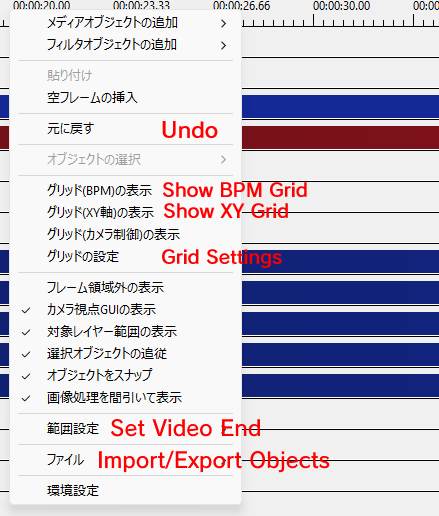
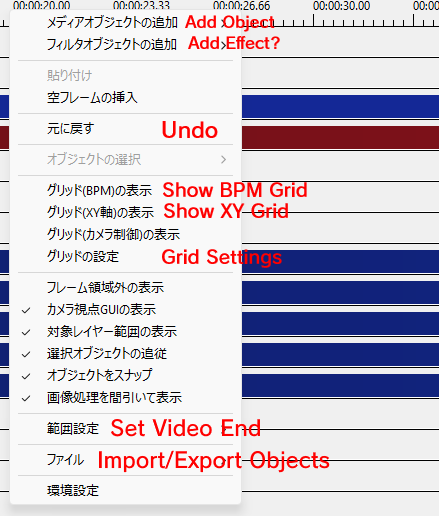
Add images

Changed region(s): [[0.4146, 0.031, 0.6515, 0.093]]

diff --git a/AviUtl-Reference.md b/AviUtl-Reference.md
@@ -1,12 +1,18 @@
 # AviUtl Reference
 Picture guide of what does what in AviUtl, primarily the Extended Editor. If anything is missing, that means I haven't tested it or have no idea what it does even after testing.
+
 ## Timeline Right Click
 ![](images/aviutlreference/timelinerightclick.png)
+### Add Object
+![](images/aviutlreference/insertobject1.png)
 ### Set Video End
 ![](images/aviutlreference/timelinerightclick_videoend.png)
+
 ## Object Right Click
 ![](images/aviutlreference/rightclickguide.png)
+
 ## Object Double Click
-![](images/aviutlreference/doubleclickobject.png)
+![](images/aviutlreference/doubleclickobject.png)\
+![](images/aviutlreference/swapobject.png)
 ### Easing?
 ![](images/aviutlreference/easing.png)
